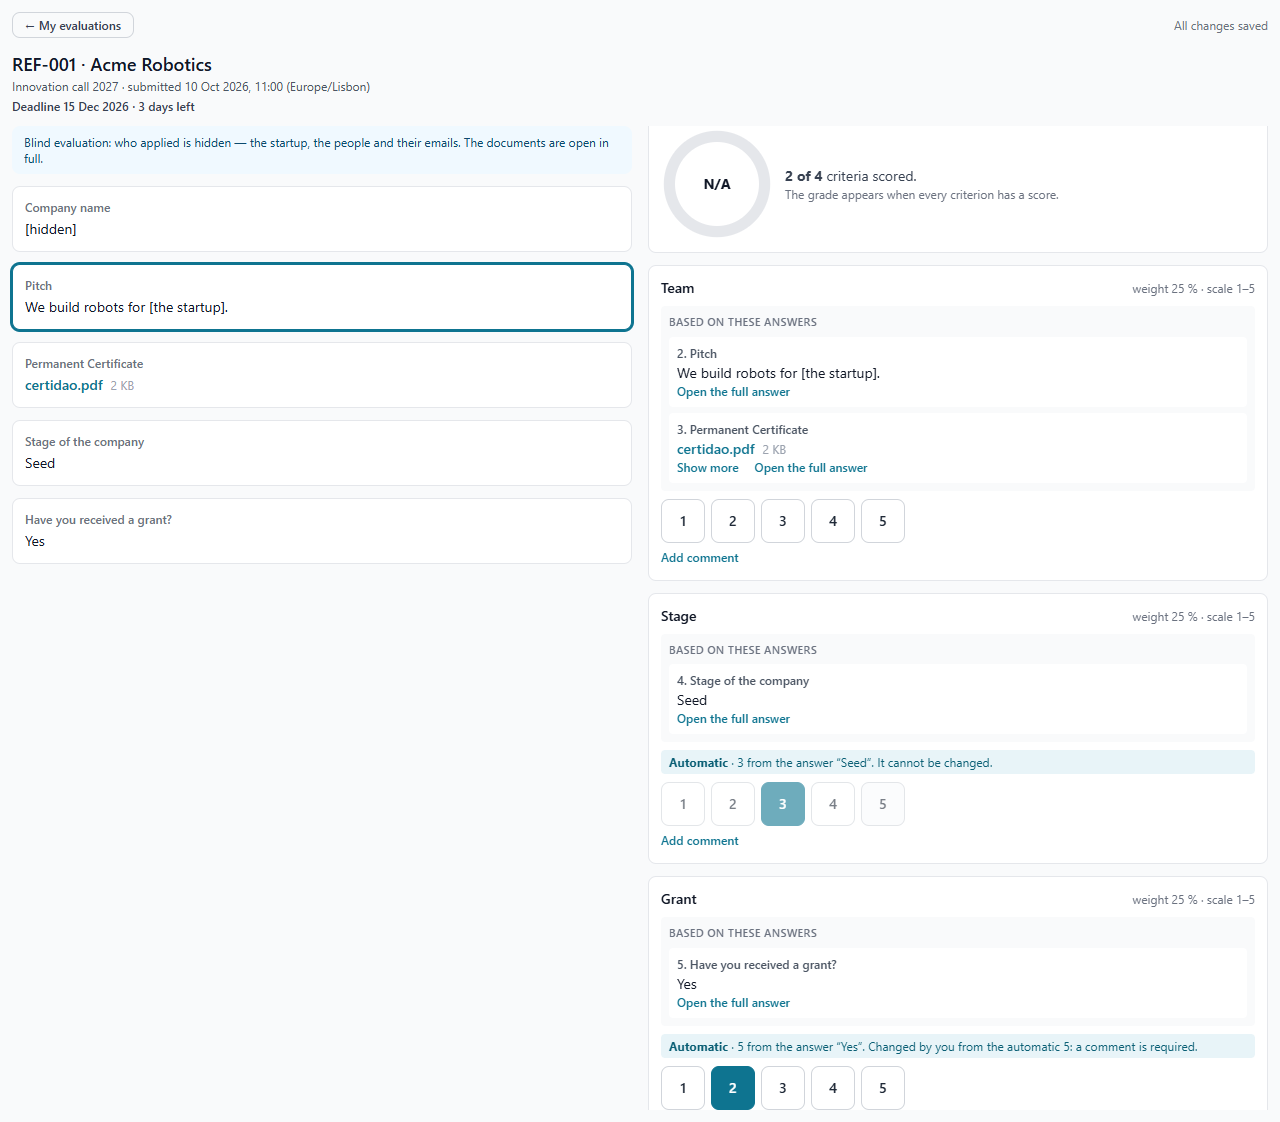
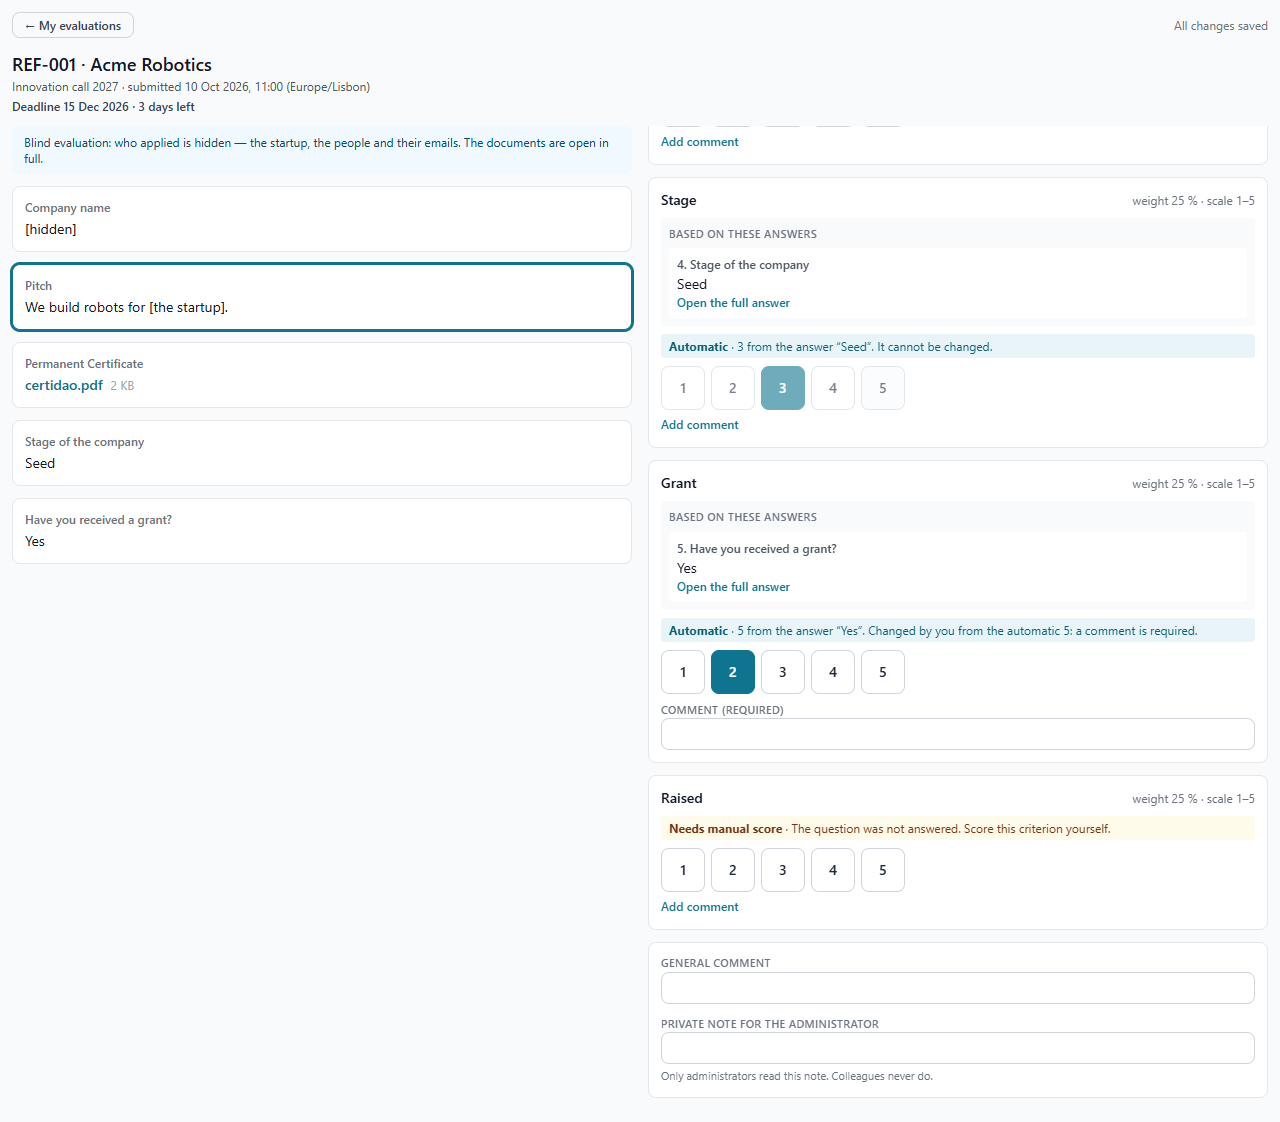
feat(calls): the tips choice on the call page and in account settings (Prompt 929, B)

diff --git a/src/components/calls/applicant/tips-preference-placement.test.ts b/src/components/calls/applicant/tips-preference-placement.test.ts
@@ -1,0 +1,22 @@
+// Prompt 929 (B) — the applicant's choice about Sherlock Deal's tips is offered where the applicant actually is: on the call's own page (for a signed-in person, new or existing account), in the Calls area and in
+// the account settings. Source-level pins, like the other placement tests, so that moving the page cannot silently drop the box.
+import { readFileSync } from 'node:fs';
+import { describe, expect, it } from 'vitest';
+
+const read = (p: string) => readFileSync(p, 'utf8');
+describe('where the tips choice is offered', () => {
+  it('the call page shows it to anyone signed in who is not on the team', () => {
+    const s = read('src/app/call/[token]/page.tsx');
+    expect(s).toContain("import { TipsPreference }");
+    expect(s).toMatch(/session\?\.authenticated && !session\.onTeam && <TipsPreference/);
+  });
+  it('the Calls area and the account settings show it too', () => {
+    expect(read('src/components/calls/applicant/ApplicantCalls.tsx')).toContain('<TipsPreference');
+    expect(read('src/app/settings/page.tsx')).toContain('<TipsPreference');
+  });
+  it('it is one preference on the account (the same route everywhere), saved at once', () => {
+    const c = read('src/components/calls/applicant/TipsPreference.tsx');
+    expect(c).toContain('/api/calls/apply/preferences');
+    expect(c).toContain("I don’t want to receive feedback from Sherlock Deal about my evaluations");
+  });
+});

diff --git a/src/app/settings/page.tsx b/src/app/settings/page.tsx
@@ -19,6 +19,7 @@ import { AutomationsPanel } from '@/components/AutomationsPanel';
 import { PermissionsMatrixCard } from '@/components/PermissionsMatrixCard';
 import { ImportPanel } from '@/components/settings/ImportPanel';
 import { AccountSecurityCard } from '@/components/settings/AccountSecurityCard';
+import { TipsPreference } from '@/components/calls/applicant/TipsPreference';
 import { CloseAccountCard } from '@/components/settings/CloseAccountCard';
 import { ProgramsPanel } from '@/components/settings/ProgramsPanel';
 import { NeedsReviewPanel } from '@/components/queue/NeedsReviewPanel';
@@ -363,6 +364,7 @@ function TeamPanel() {
           {/* Prompt 602 — password & security (own password; the owner's
               admin-reset switch; an admin's owner-reset action). */}
           <AccountSecurityCard />
+          <TipsPreference />
           <PermissionsMatrixCard />
           <Suspense fallback={null}><GmailConnectionCard /></Suspense>
           {/* Prompt 602 §C — owner only; renders nothing for anyone else. */}

diff --git a/src/app/call/[token]/page.tsx b/src/app/call/[token]/page.tsx
@@ -18,6 +18,7 @@ import { ApplicationArea, type CallSession } from '@/components/calls/applicant/
 import { TeamNotice } from '@/components/calls/applicant/TeamNotice';
 import { GONE_MESSAGE } from '@/lib/calls/deletion';
 import { ReportProblem } from '@/components/calls/applicant/ReportProblem';
+import { TipsPreference } from '@/components/calls/applicant/TipsPreference';
 
 export default function CallLinkPage() {
   const { token } = useParams<{ token: string }>();
@@ -110,6 +111,8 @@ export default function CallLinkPage() {
               ) : (
                 <ApplicationArea token={token} call={call} session={session} onChanged={() => void loadSession()} />
               )}
+              {/* Prompt 929 (B): the choice about Sherlock Deal's tips is offered to everyone who is signed in here — a new account at the startup step, an existing one as soon as it arrives. */}
+              {session?.authenticated && !session.onTeam && <TipsPreference className="mt-6" />}
             </div>
           </>
         )}

diff --git a/DECISIONS.md b/DECISIONS.md
@@ -11648,3 +11648,7 @@ Relatório em `docs/calls/PROMPT_929_B_DICAS.md` (com **todas as frases-modelo**
 - **Candidato:** recusa pela caixa «I don't want to receive feedback from Sherlock Deal about my evaluations» (área Calls, na **conta**, `/api/calls/apply/preferences`, `withoutViewer` no POST) e pelo link assinado do email; lida de novo ao enviar. O email é **da Sherlock Deal**, separado da resposta da entidade.
 - **Decisões minhas a confirmar:** (1) o consentimento do candidato é a caixa na área Calls (não no registo pela ligação da call, que não tem ecrã próprio de conta); (2) o limite mínimo de diferença (5 pontos) e o de 2 avaliações são constantes em `tips.ts`; (3) *Waitlist* não recebe dicas (ainda não é uma rejeição).
 - **Testes:** `tips.test.ts` (motor, 10), `calls-929-b-tips-routes.test.ts` (13: quem recebe e quando, interruptor lido ao enviar, recusa, uma só vez, contestação, sem IA, língua, o que o email não diz, o link, o exemplo, permissões, a escolha da conta).
+
+### Prompt 929, parte B — retoque (06/11/2026): a escolha das dicas onde o candidato está
+
+A caixa «I don't want to receive feedback from Sherlock Deal about my evaluations» só existia na área Calls. Agora aparece também **na página da própria call** (`/call/<token>`) para qualquer pessoa com sessão que não seja da equipa — conta nova no passo da startup, ou conta antiga assim que chega — e **nas definições da conta**. É sempre a mesma preferência da conta (`tips_opt_out`). Antes de ter sessão não há conta onde a guardar, por isso é a primeira coisa que se vê depois de entrar. Teste: `tips-preference-placement.test.ts`.
